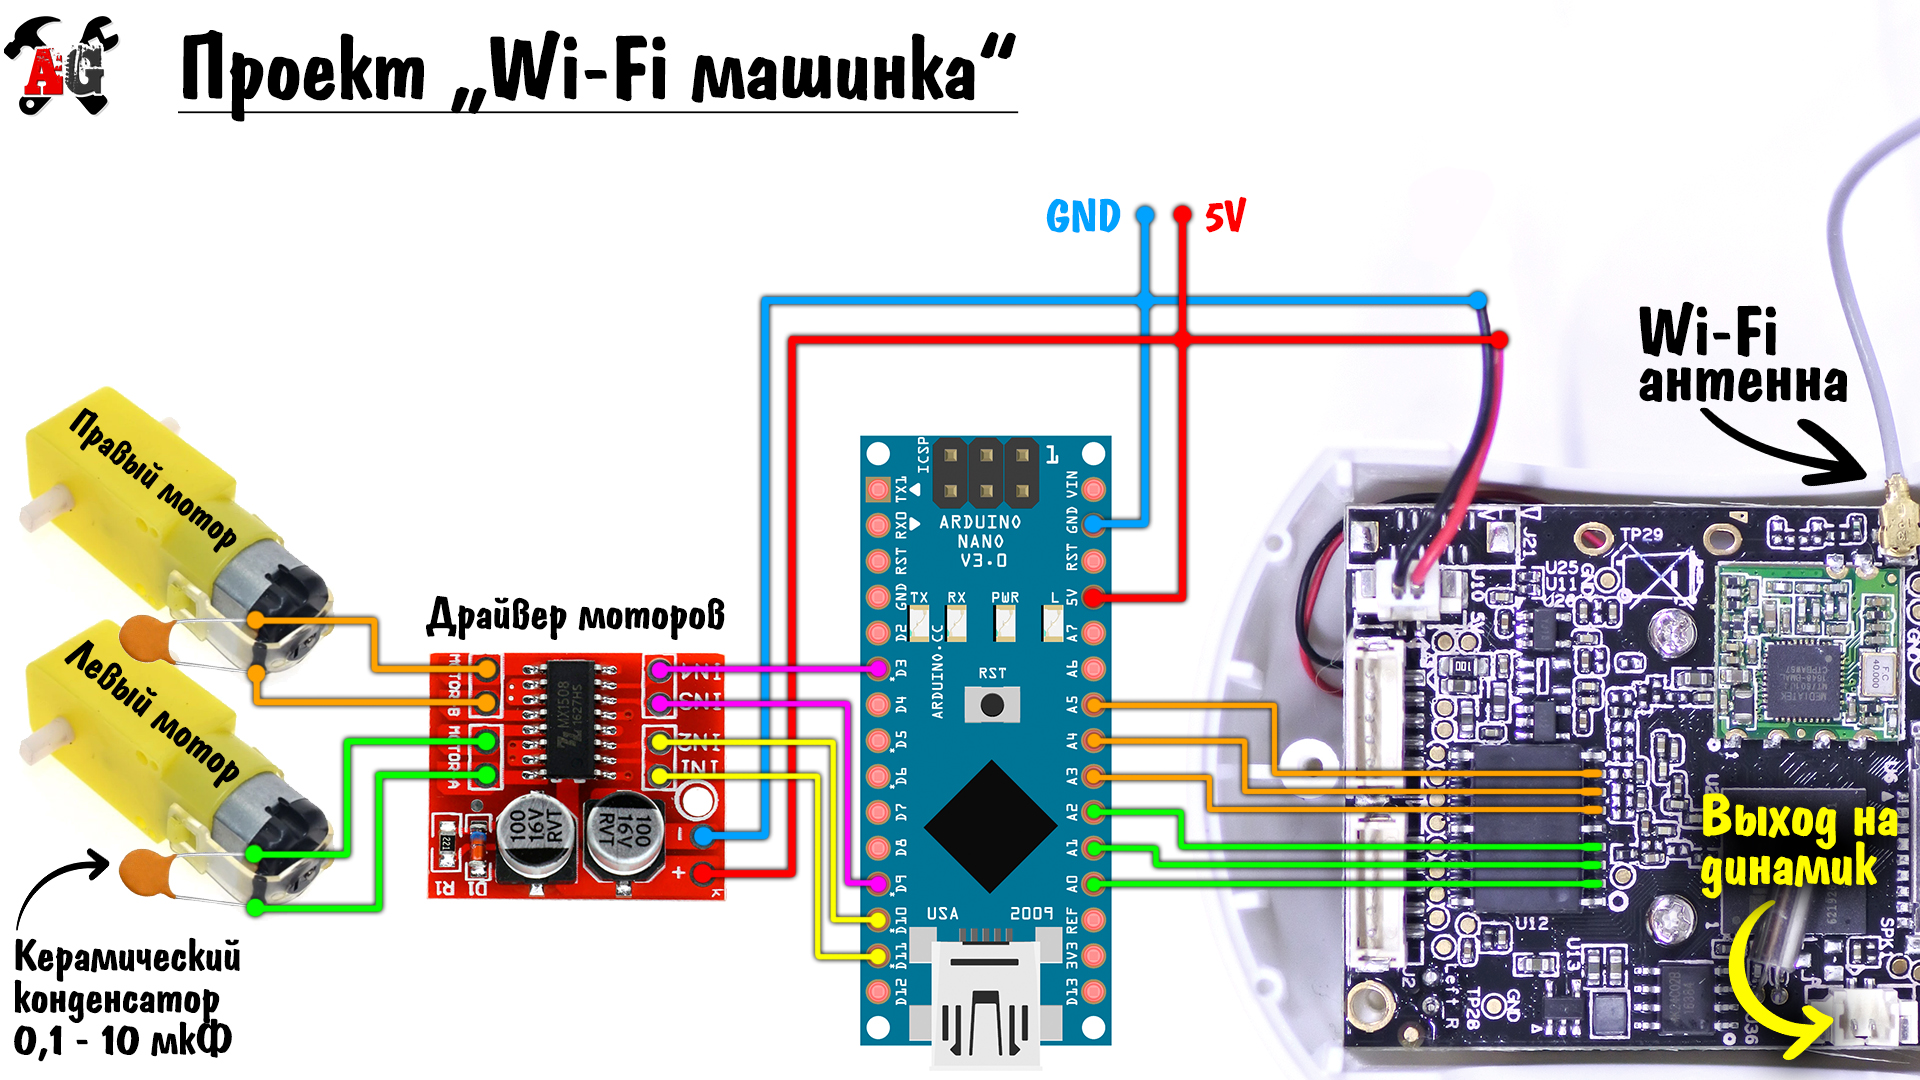
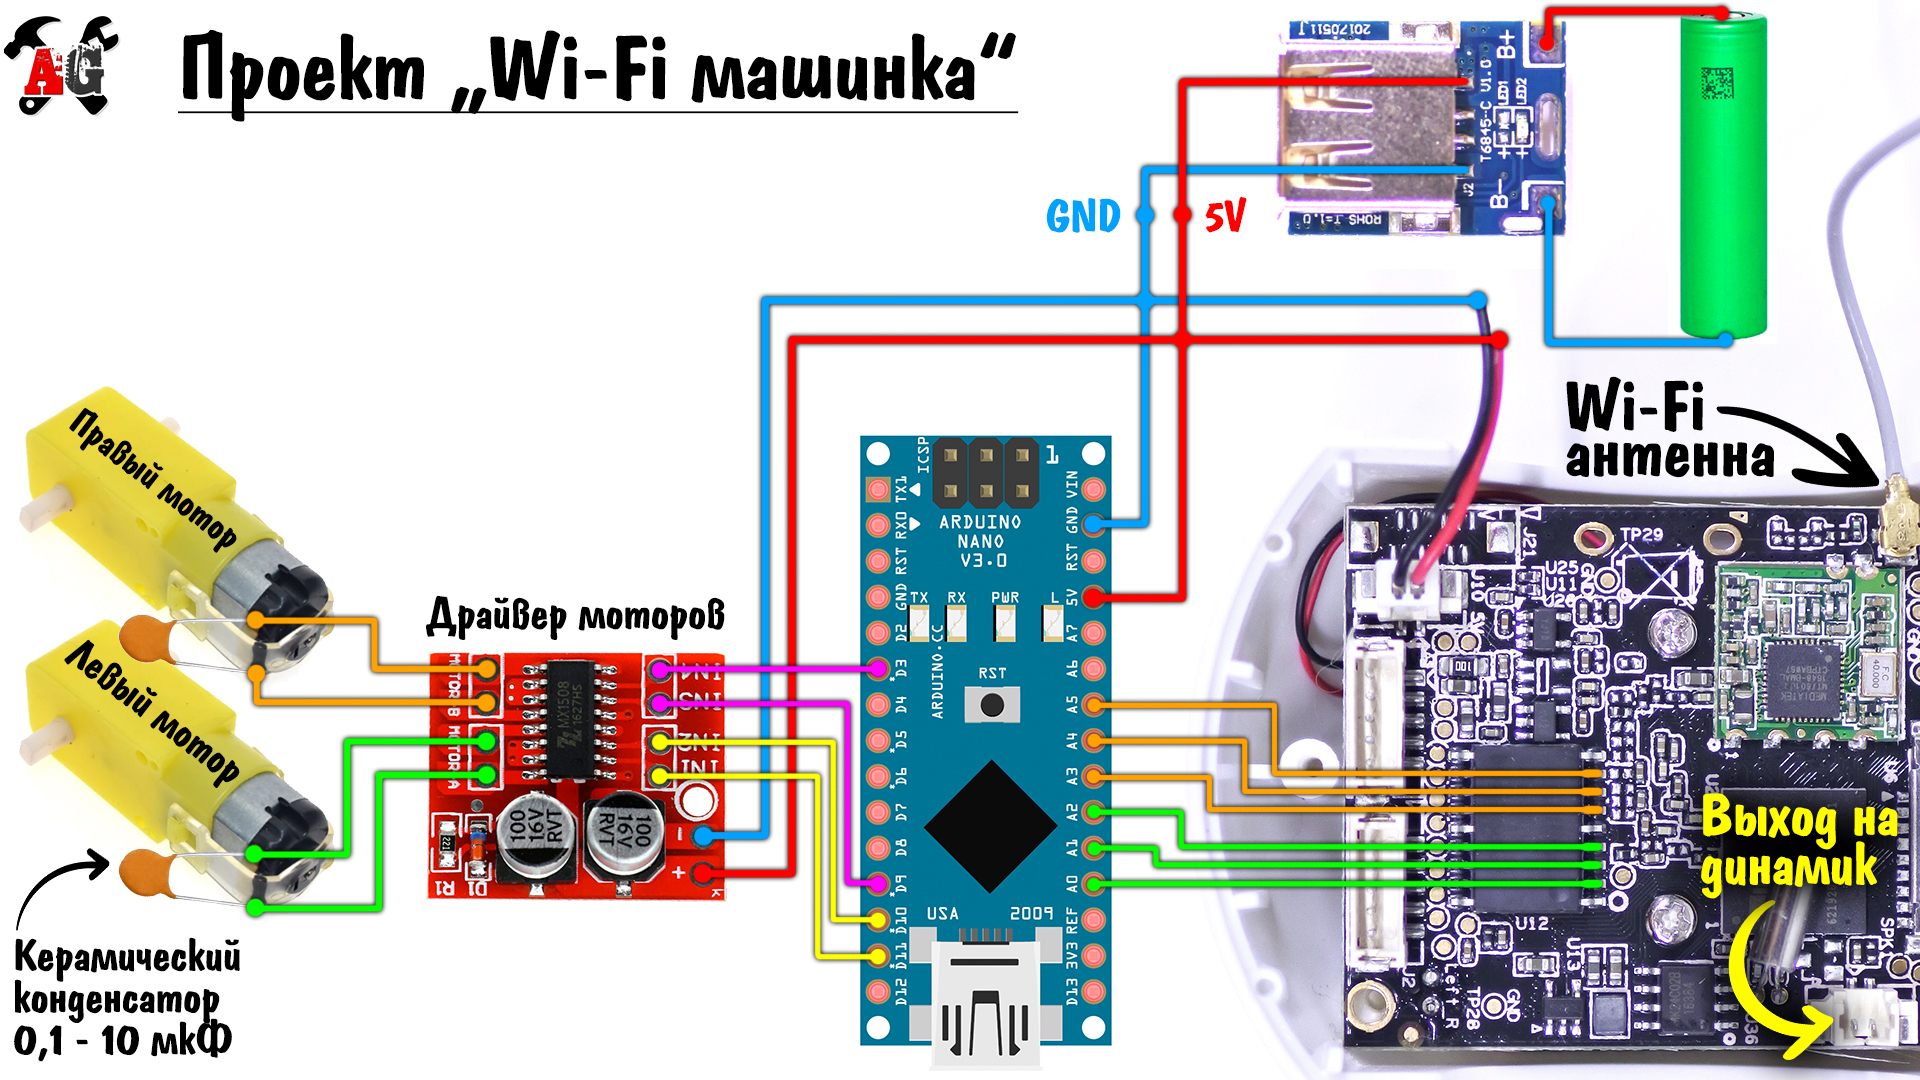
upd

Changed region(s): [[0.5938, 0.0, 1.0, 0.4583]]

diff --git a/README.md b/README.md
@@ -1,5 +1,5 @@
-![PROJECT_PHOTO](https://github.com/AlexGyver/gyverlight/blob/master/proj_img.jpg)
-# Эффектный светильник на Arduino
+![PROJECT_PHOTO](https://github.com/AlexGyver/IP_car/blob/master/proj_img.jpg)
+# Wi-Fi машинка на Arduino своими руками
 * [Описание проекта](#chapter-0)
 * [Папки проекта](#chapter-1)
 * [Схемы подключения](#chapter-2)
@@ -11,24 +11,17 @@
 
 <a id="chapter-0"></a>
 ## Описание проекта
-Светильник на основе адресной светодиодной ленты с различными эффектами 
-Страница проекта на сайте: https://alexgyver.ru/gyverlight/  
+Машинка с камерой и управлением через интернет на Arduino. Основана на китайской IP камере =)
+Страница проекта на сайте: https://alexgyver.ru/IP_car/  
    
 #### Особенности:
-- Управление одной сенсорной кнопкой
-- Эффекты: 
-	- Блуждающий огонёк
-	- Светлячки
-	- Смена цвета
-	- Радуга
-	- Конфетти
-	- Пламя
-- Управление:
-	- Удержание - яркость
-	- 1х тап - вкл/выкл
-	- 2х тап - переключ режима
-	- 3х тап - вкл/выкл белый свет
-	- 4х тап - старт/стоп авто смены режимов
+- Фишки, унаследованные от камеры:
+	- Картинка 1280x720
+	- Ночной режим (с ИК подсветкой)
+	- Запись видео и съёмка фото
+	- Режим рации (двухсторонняя аудиосвязь)
+- Управление из родного приложения
+- Настройки скорости и продолжительности движения
 
 <a id="chapter-1"></a>
 ## Папки
@@ -39,19 +32,19 @@
 
 <a id="chapter-2"></a>
 ## Схемы
-![SCHEME](https://github.com/AlexGyver/gyverlight/blob/master/schemes/scheme.jpg)
-![SCHEME](https://github.com/AlexGyver/gyverlight/blob/master/schemes/scheme2.jpg)
+![SCHEME](https://github.com/AlexGyver/IP_car/blob/master/schemes/scheme.jpg)
 
 <a id="chapter-3"></a>
 ## Материалы и компоненты
 ### Ссылки оставлены на магазины, с которых я закупаюсь уже не один год
-- Arduino NANO http://ali.ski/e6Fgi  http://ali.ski/4_s6VB
-- Сенсорный модуль http://ali.ski/anaje  http://ali.ski/sZnCo
-- Лента http://ali.ski/7JZPFu
-- Резисторы (220 R) http://ali.ski/Ony1Q7
-- БП 5 Вольт http://ali.ski/1t4zpW  http://ali.ski/mCNnFW
-- Ступенчатое сверло http://ali.ski/2pMIX
-- Проводочки http://ali.ski/Q7OF3  http://ali.ski/9xvYq
+- Arduino NANO http://ali.ski/8ac008  http://ali.ski/O_zpp
+- SANNCE камера http://ali.ski/psTbm
+- Платформа с моторами и колёсами http://ali.ski/nQ-b24
+- Драйвер моторов http://ali.ski/ZYFMO
+Дополнительно:  
+- Отсек под 18650 http://ali.ski/q1vGy
+- Акум 18650 http://ali.ski/F7rdhq  http://ali.ski/IbpFi
+- Модуль 5V с зарядкой http://ali.ski/k5lYY
 
 ## Вам скорее всего пригодится
 * [Всё для пайки (паяльники и примочки)](http://alexgyver.ru/all-for-soldering/)
@@ -77,15 +70,18 @@
 * Пользоваться  
 
 ## Настройки в коде
-    CURRENT_LIMIT 2000  // лимит по току в миллиамперах, автоматически управляет яркостью (пожалей свой блок питания!) 0 - выключить лимит
-    AUTOPLAY_TIME 30    // время между сменой режимов в секундах
+    FRW_SPEED 120     // скорость движения вперёд (0-255)
+    BKW_SPEED 80      // скорость движения назад (0-255)
+    TURN_SPEED 95     // скорость поворота (0-255)
+    MOVE_TIME 3       // время, которое машинка едет после команды (секунды)
+    TURN_TIME 0.4     // время, которое машинка крутится после команды (секунды)
 
-    NUM_LEDS 14         // количсетво светодиодов в одном отрезке ленты
-    NUM_STRIPS 4        // количество отрезков ленты (в параллели)
-    LED_PIN 6           // пин ленты
-    BTN_PIN 2           // пин кнопки/сенсора
-    BRIGHTNESS 250      // начальная яркость
-    FIRE_PALETTE 0      // разные типы огня (0 - 3). Попробуй их все! =)
+    TIMEOUT 700       // таймаут опроса выхода с драйвера (длительность отправки сигнала на моторы КАМЕРЫ)
+    START_DELAY 100   // задержка включения, секунды (ждём калибровку камеры)
+
+    // поворот НАЛЕВО и движение НАЗАД ограничены
+    INVERT_X 1        // инверт горизонтальной оси
+    INVERT_Y 1        // инверт вертикальной оси
 	
 <a id="chapter-5"></a>
 ## FAQ
